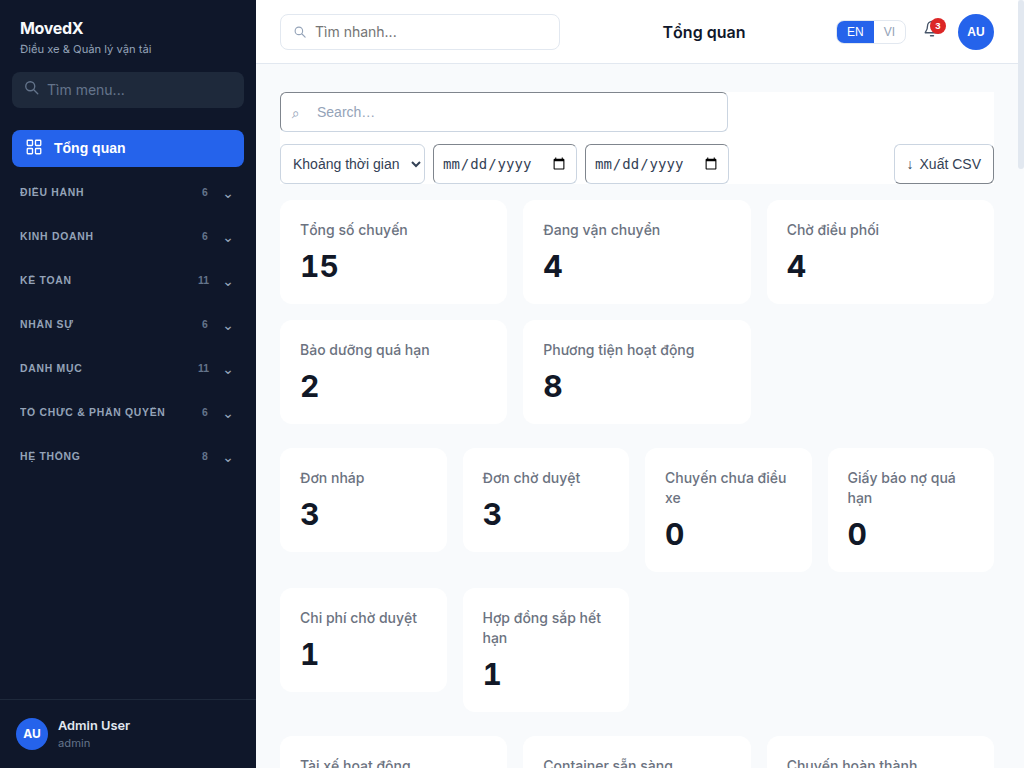
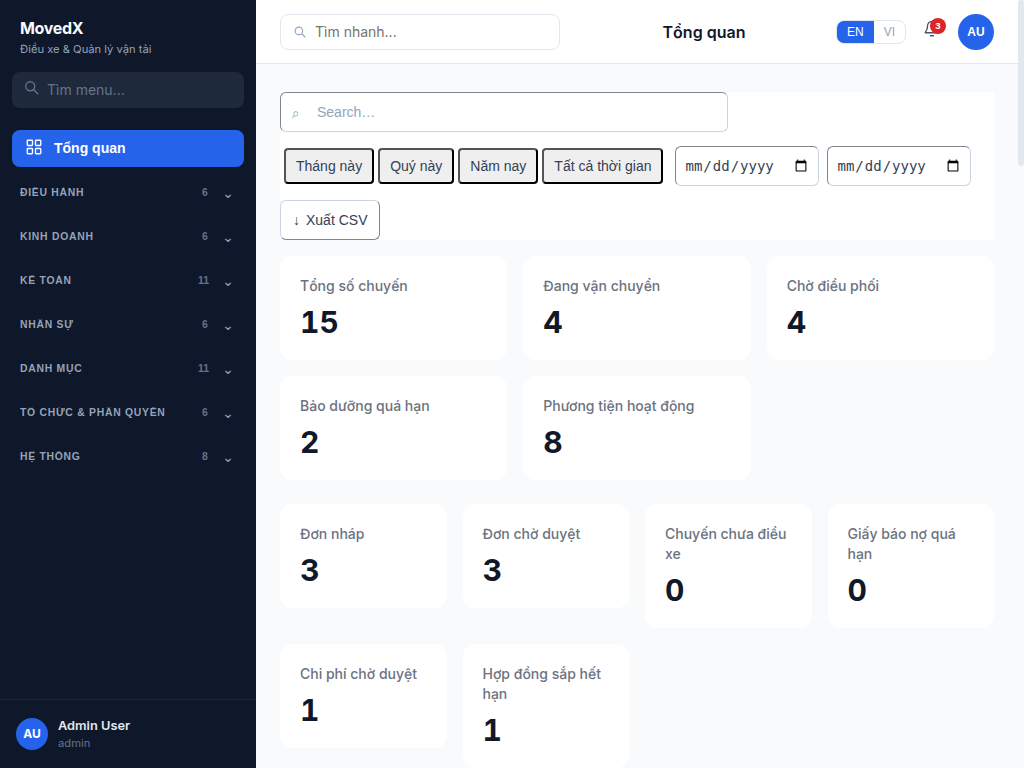
Add segmented dashboard period controls

diff --git a/lib/components/ListToolbar.ts b/lib/components/ListToolbar.ts
@@ -30,6 +30,7 @@ export type ListToolbarDefinition = {
     from_label?: string;
     to_label?: string;
     presets?: Array<'today' | 'week' | 'month' | 'quarter' | 'year' | 'all'>;
+    preset_style?: 'select' | 'segmented';
   };
   filter_sources?: string[];
 };
@@ -100,32 +101,50 @@ export class ListToolbar extends BaseComponent {
       range.className = 'flex flex-wrap items-center gap-2';
       const dateRange = this.def.date_range;
       if (dateRange.presets?.length) {
-        const select = document.createElement('select');
-        select.className = 'h-10 rounded-md border border-slate-300 bg-white px-2 text-sm text-slate-700';
-        select.setAttribute('aria-label', 'Khoảng thời gian');
-        const placeholder = document.createElement('option');
-        placeholder.value = '';
-        placeholder.textContent = 'Khoảng thời gian';
-        select.append(placeholder);
         const labels: Record<string, string> = {
           today: 'Hôm nay', week: 'Tuần này', month: 'Tháng này', quarter: 'Quý này', year: 'Năm nay', all: 'Tất cả thời gian',
         };
-        for (const preset of dateRange.presets) {
-          const option = document.createElement('option');
-          option.value = preset;
-          option.textContent = labels[preset] || preset;
-          select.append(option);
-        }
-        select.addEventListener('change', () => {
-          const value = select.value as typeof dateRange.presets[number] | '';
-          if (!value) return;
+        const submitPreset = (value: typeof dateRange.presets[number]) => {
           const dates = this.resolvePreset(value);
           this.submit('date-range', {
             [(dateRange.from_field || 'from_date')]: dates.from,
             [(dateRange.to_field || 'to_date')]: dates.to,
           });
-        });
-        range.append(select);
+        };
+        if (dateRange.preset_style === 'segmented') {
+          const segments = document.createElement('div');
+          segments.className = 'flex flex-wrap items-center gap-1 rounded-md border border-slate-300 bg-white p-1';
+          segments.setAttribute('aria-label', 'Khoảng thời gian');
+          for (const preset of dateRange.presets) {
+            const button = document.createElement('button');
+            button.type = 'button';
+            button.dataset.datePreset = preset;
+            button.className = 'rounded px-2.5 py-1.5 text-sm text-slate-700 transition-colors hover:bg-blue-50 hover:text-blue-700';
+            button.textContent = labels[preset] || preset;
+            button.addEventListener('click', () => submitPreset(preset));
+            segments.append(button);
+          }
+          range.append(segments);
+        } else {
+          const select = document.createElement('select');
+          select.className = 'h-10 rounded-md border border-slate-300 bg-white px-2 text-sm text-slate-700';
+          select.setAttribute('aria-label', 'Khoảng thời gian');
+          const placeholder = document.createElement('option');
+          placeholder.value = '';
+          placeholder.textContent = 'Khoảng thời gian';
+          select.append(placeholder);
+          for (const preset of dateRange.presets) {
+            const option = document.createElement('option');
+            option.value = preset;
+            option.textContent = labels[preset] || preset;
+            select.append(option);
+          }
+          select.addEventListener('change', () => {
+            const value = select.value as typeof dateRange.presets[number] | '';
+            if (value) submitPreset(value);
+          });
+          range.append(select);
+        }
       }
       const fields = [
         { key: dateRange.from_field || 'from_date', label: dateRange.from_label || 'Từ ngày' },

diff --git a/lib/test/cases/list-pattern.test.ts b/lib/test/cases/list-pattern.test.ts
@@ -117,6 +117,21 @@ describe('ListToolbar', () => {
     expect(submit).toHaveBeenCalledWith('date-range', { from_date: '', to_date: '' });
   });
 
+  it('renders segmented period presets when requested', () => {
+    const component = new ListToolbar('toolbar', {}, {
+      search: false,
+      date_range: { presets: ['month', 'all'], preset_style: 'segmented' },
+    });
+    const submit = vi.spyOn(component, 'submit').mockResolvedValue({});
+    const { container } = mount(component);
+    const button = container.querySelector<HTMLButtonElement>('[data-date-preset="month"]')!;
+
+    button.click();
+
+    expect(submit).toHaveBeenCalledWith('date-range', expect.objectContaining({ from_date: expect.any(String) }));
+    expect(container.querySelector('select[aria-label="Khoảng thời gian"]')).toBeNull();
+  });
+
   it('emits typed filter values from declarative selects', () => {
     const component = new ListToolbar('toolbar', {}, {
       search: false,

diff --git a/lib/yaml/schema.ts b/lib/yaml/schema.ts
@@ -84,7 +84,7 @@ const ROW_ACTION_KEYS = new Set(['id', 'label', 'variant', 'show_if']);
 const TAB_KEYS = new Set(['id', 'label', 'components', 'permission', 'count']);
 const STAT_KEYS = new Set(['label', 'field', 'color']);
 const SEARCH_KEYS = new Set(['label', 'placeholder', 'action']);
-const DATE_RANGE_KEYS = new Set(['from_field', 'to_field', 'from_label', 'to_label', 'presets']);
+const DATE_RANGE_KEYS = new Set(['from_field', 'to_field', 'from_label', 'to_label', 'presets', 'preset_style']);
 const TOOLBAR_FILTER_KEYS = new Set(['field', 'label', 'options', 'placeholder']);
 const COMPONENT_ACTION_KEYS = new Set([
   'id',
@@ -493,6 +493,9 @@ function validateDateRange(value: unknown, path: string, issues: string[]) {
         }
       });
     }
+  }
+  if (value.preset_style !== undefined && value.preset_style !== 'select' && value.preset_style !== 'segmented') {
+    issues.push(`${path}.preset_style must be select or segmented`);
   }
 }
 
